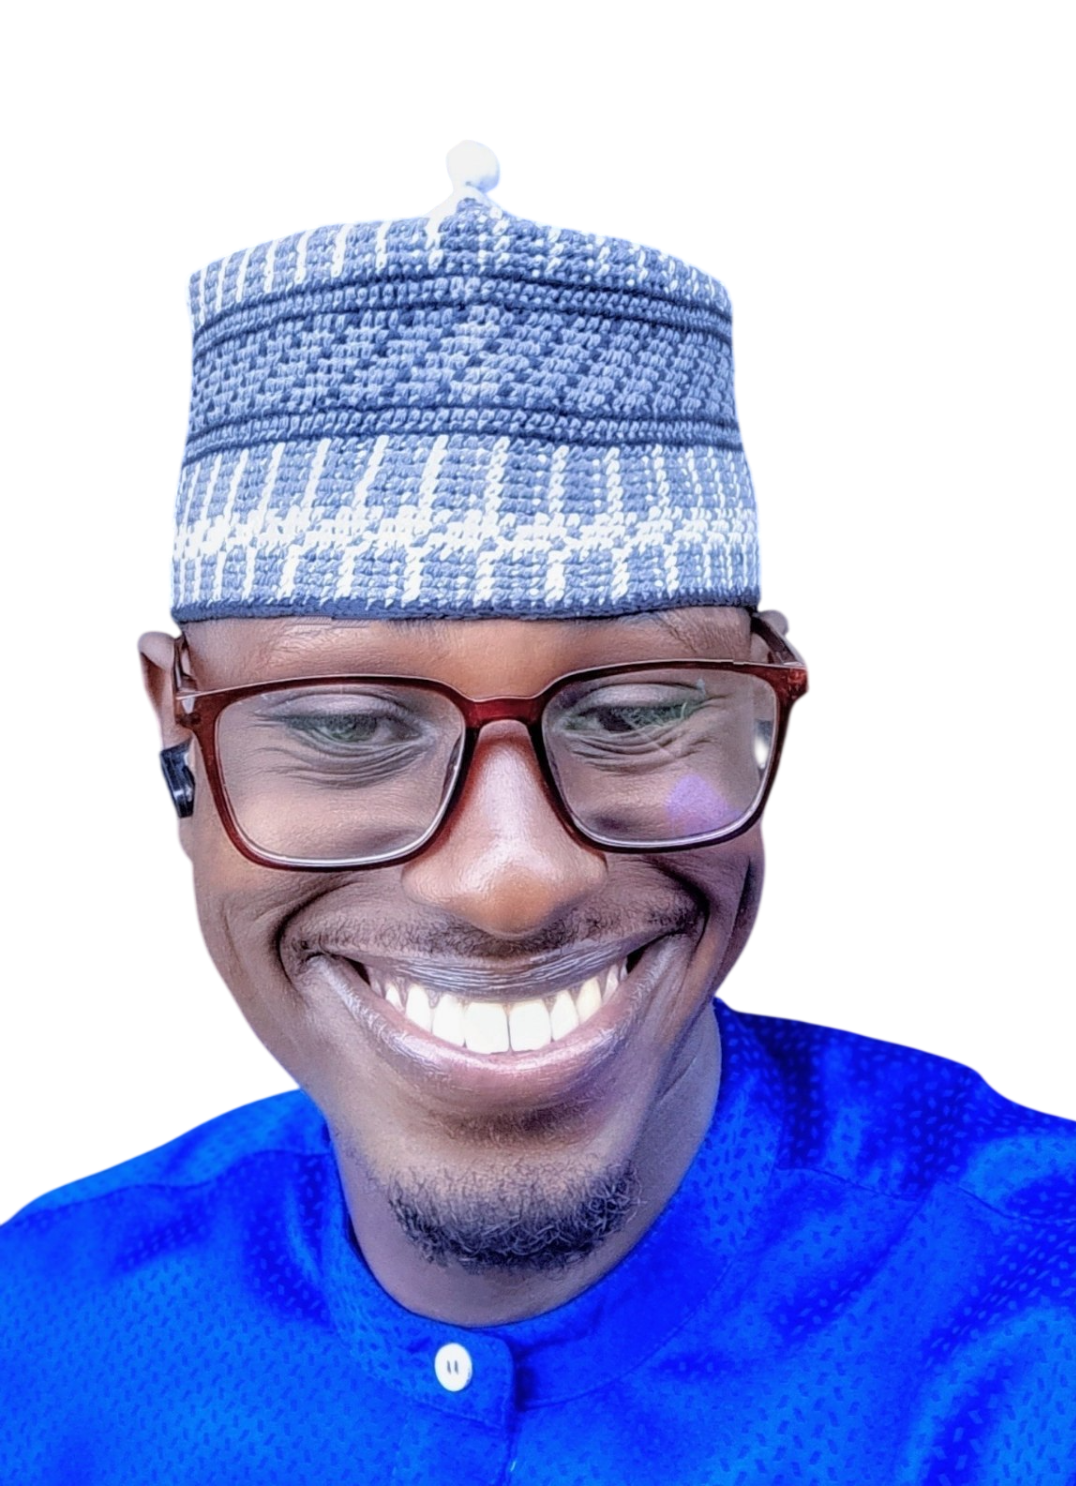
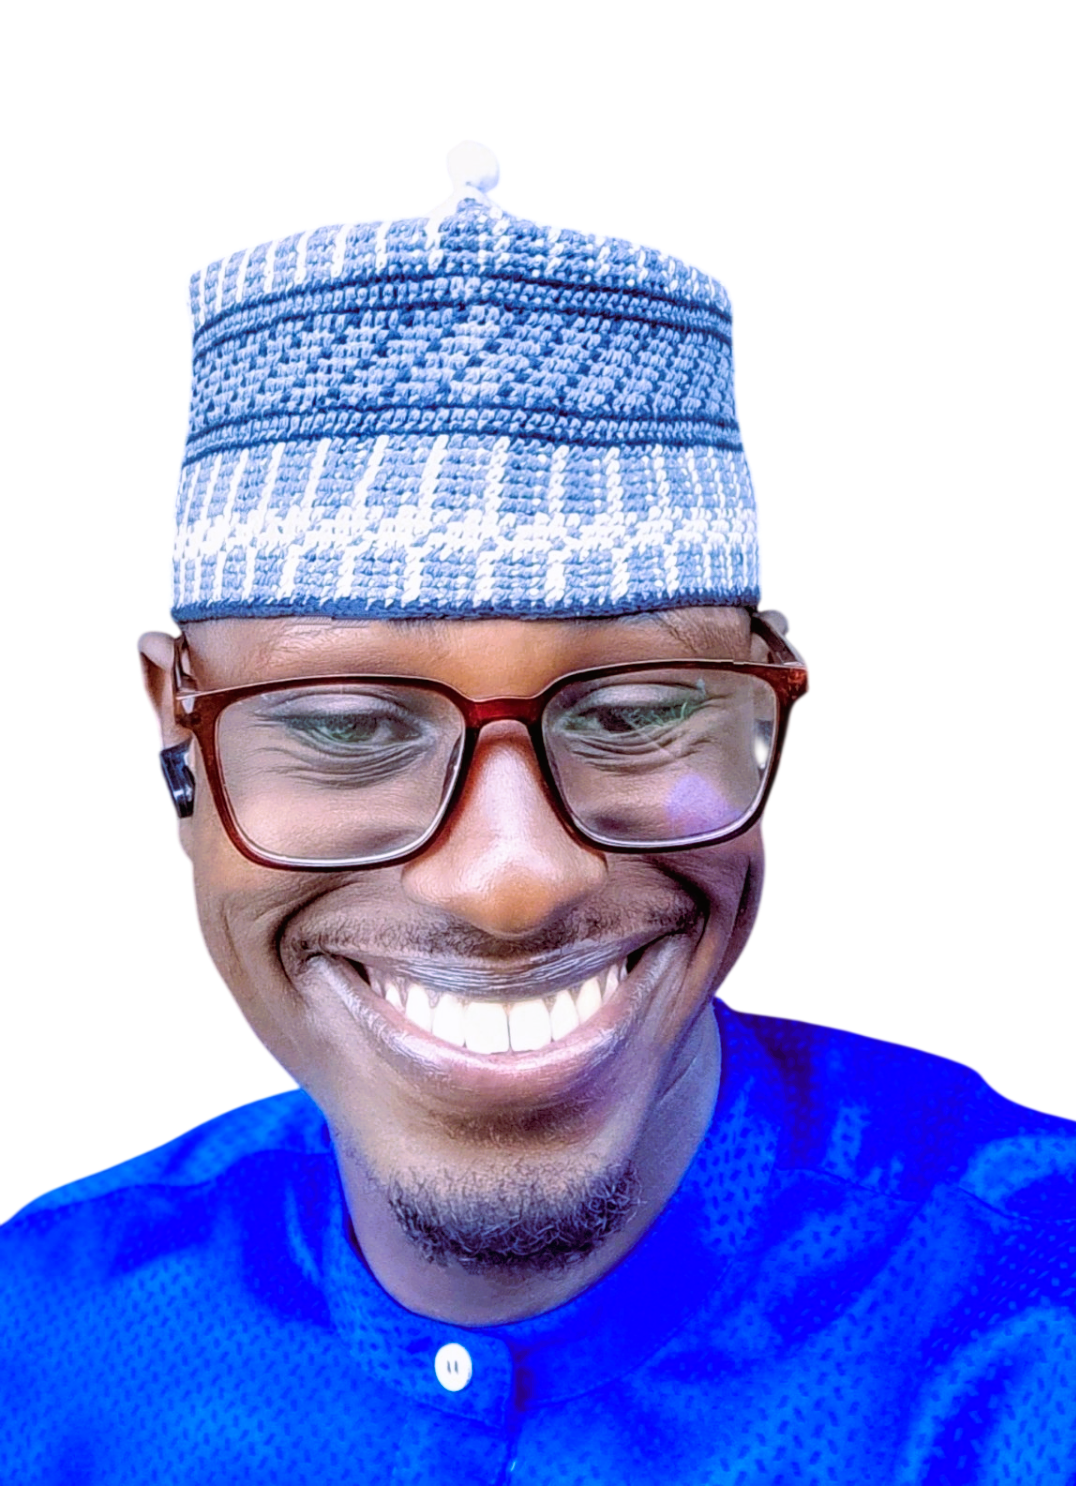
Refactor animation timeline values for improved character movement and transitions in HeroScrollScene

diff --git a/src/components/hero/animationTimeline.ts b/src/components/hero/animationTimeline.ts
@@ -3,11 +3,11 @@
  * All values are normalised scroll progress (0 = top of the hero, 1 = end).
  */
 export const animationTimeline = {
-  sitting: [0, 0.06],
-  standing: [0.06, 0.2],
-  walk1: [0.2, 0.38],
-  walk2: [0.38, 0.54],
-  walk1Return: [0.54, 0.7],
+  sitting: [0, 0.02],
+  standing: [0.02, 0.14],
+  walk1: [0.14, 0.34],
+  walk2: [0.34, 0.52],
+  walk1Return: [0.52, 0.7],
   walk3: [0.7, 0.96],
   exit: [0.96, 1],
 } as const;
@@ -15,19 +15,19 @@ export const animationTimeline = {
 /** Crossfade keyframes for each pose: [progress stops], [opacity stops]. */
 export const poseFades = {
   sitting: {
-    input: [0, 0.06, 0.2],
+    input: [0, 0.02, 0.14],
     output: [1, 1, 0],
   },
   standing: {
-    input: [0.06, 0.12, 0.2, 0.28],
+    input: [0.02, 0.08, 0.14, 0.22],
     output: [0, 1, 1, 0],
   },
   walk1: {
-    input: [0.2, 0.28, 0.38, 0.46, 0.54, 0.62, 0.7, 0.78],
+    input: [0.14, 0.22, 0.34, 0.43, 0.52, 0.61, 0.7, 0.78],
     output: [0, 1, 1, 0, 0, 1, 1, 0],
   },
   walk2: {
-    input: [0.38, 0.46, 0.54, 0.62],
+    input: [0.34, 0.43, 0.52, 0.61],
     output: [0, 1, 1, 0],
   },
   walk3: {
@@ -38,7 +38,7 @@ export const poseFades = {
 
 /** Horizontal walk path of the character stage, in viewport-width units. */
 export const characterPath = {
-  input: [0, 0.06, 0.2, 0.38, 0.54, 0.7, 0.96, 1],
+  input: [0, 0.02, 0.14, 0.34, 0.52, 0.7, 0.96, 1],
   x: [0, 0, 2, 14, 30, 48, 78, 94],
   y: [0, 0, -2, -2.5, -2, -2.5, -1.5, -1],
   scale: [1, 1, 1.04, 1.08, 1.09, 1.1, 1.12, 1.12],

diff --git a/src/components/hero/HeroScrollScene.tsx b/src/components/hero/HeroScrollScene.tsx
@@ -22,7 +22,7 @@ export function HeroScrollScene({ progress, travel, reducedMotion }: HeroScrollS
 
   const chairPush = useTransform(
     progress,
-    [0, 0.08, 0.2, 1],
+    [0, 0.03, 0.14, 1],
     reducedMotion ? [0, 0, 0, 0] : [0, 0, 10, 10],
   );
 
